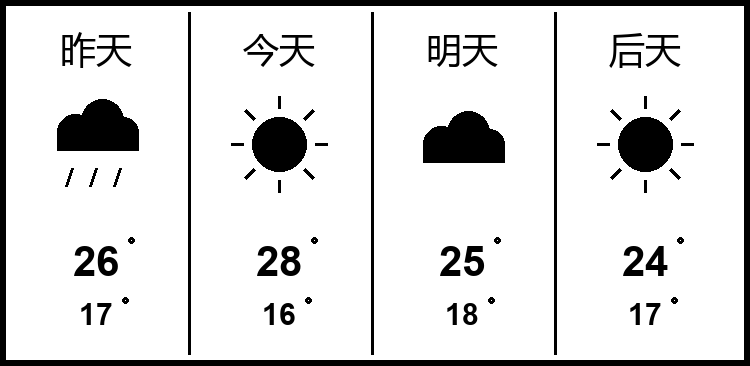
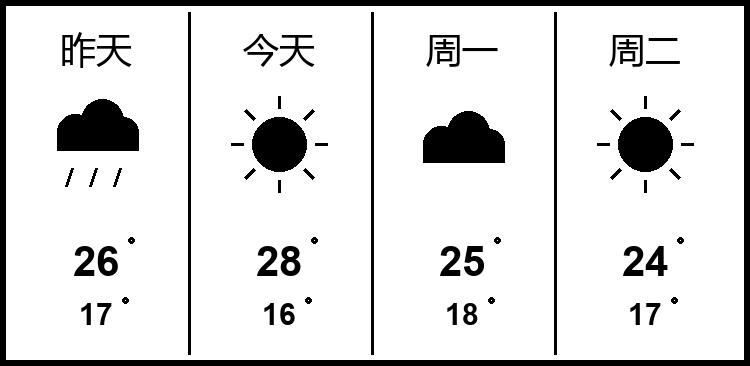
天气页标签改为周几（自动计算），延迟页统计移至右上角并标注时间轴，非主页停留2分钟自动回主页

Changed region(s): [[0.7973, 0.0902, 0.92, 0.1803], [0.552, 0.0902, 0.6747, 0.1803]]

diff --git a/src/ui.cpp b/src/ui.cpp
@@ -275,8 +275,17 @@ void uiDrawForecast(const AppConfig& cfg, const ForecastInfo& fc,
     epd.drawRect(0, 0, SCREEN_W, SCREEN_H, GxEPD_BLACK);
     epd.drawRect(1, 1, SCREEN_W - 2, SCREEN_H - 2, GxEPD_BLACK);
 
-    // 四列：昨天 / 今天 / 明天 / 后天（竖线分割）
-    static const char *labels[4] = { "昨天", "今天", "明天", "后天" };
+    // 四列：昨天 / 今天 / 周X / 周X（后两列按日期计算星期）
+    static const char *weekCn[] = { "日", "一", "二", "三", "四", "五", "六" };
+    char labelBuf[2][8];
+    const char *labels[4] = { "昨天", "今天", "明天", "后天" };
+    for (int i = 2; i < 4; i++) {
+        if (fc.valid && fc.days[i].wday >= 0 && fc.days[i].wday <= 6) {
+            snprintf(labelBuf[i - 2], sizeof(labelBuf[i - 2]), "周%s",
+                     weekCn[fc.days[i].wday]);
+            labels[i] = labelBuf[i - 2];
+        }
+    }
     const int16_t colW = (SCREEN_W - 4) / 4;
 
     for (int i = 1; i < 4; i++) {
@@ -386,18 +395,40 @@ void uiDrawLatency(const AppConfig& cfg, uint8_t index,
         }
     }
 
-    // 底部统计（纯 ASCII，使用小号字体）
+    // 右上角统计（min / avg / max / fail）
     char stats[56];
     if (vcnt > 0) {
-        snprintf(stats, sizeof(stats), "min %u  avg %u  max %u ms  fail %u",
+        snprintf(stats, sizeof(stats), "min%u avg%u max%u fail%u",
                  (unsigned)vmin, (unsigned)(vsum / vcnt), (unsigned)vmax,
                  (unsigned)fails);
     } else {
-        snprintf(stats, sizeof(stats), "no latency data yet");
+        snprintf(stats, sizeof(stats), "no data");
     }
     u8g2.setFont(u8g2_font_helvB08_tf);
-    u8g2.setCursor(10, SCREEN_H - 8);
+    int16_t wStats = u8g2.getUTF8Width(stats);
+    u8g2.setCursor(SCREEN_W - 10 - wStats, 18);
     u8g2.print(stats);
+
+    // 底端时间轴标注：左端与右端对应的时刻
+    if (count > 0) {
+        time_t nowT = time(nullptr);
+        struct tm tmNow;
+        localtime_r(&nowT, &tmNow);
+        time_t startT = nowT - (time_t)((uint32_t)cfg.checkIntervalMinutes *
+                                        (count - 1) * 60);
+        struct tm tmStart;
+        localtime_r(&startT, &tmStart);
+
+        char tL[8], tR[8];
+        snprintf(tL, sizeof(tL), "%02d:%02d", tmStart.tm_hour, tmStart.tm_min);
+        snprintf(tR, sizeof(tR), "%02d:%02d", tmNow.tm_hour, tmNow.tm_min);
+
+        u8g2.setCursor(x0, SCREEN_H - 6);
+        u8g2.print(tL);
+        int16_t wR = u8g2.getUTF8Width(tR);
+        u8g2.setCursor(x1 - wR, SCREEN_H - 6);
+        u8g2.print(tR);
+    }
 
     epd.display(!fullRefresh);
 }

diff --git a/src/main.cpp b/src/main.cpp
@@ -22,6 +22,9 @@
 // 用户按键：GPIO39（按下为低电平），用于切换页面
 #define BUTTON_PIN (39)
 
+// 非主页停留超过该时间后自动返回主页（默认 2 分钟）
+#define PAGE_RETURN_MS (120000UL)
+
 static AppConfig   g_cfg;
 static WeatherInfo g_weather;
 static ForecastInfo g_forecast;
@@ -30,6 +33,7 @@ static uint32_t    g_lastFullMs    = 0;
 static uint32_t    g_lastCheckMs   = 0;
 static uint8_t     g_page          = 0;      // 当前页面：0=主页 1=天气 2/3=延迟图
 static uint8_t     g_btnLast       = HIGH;   // 按键上次电平
+static uint32_t    g_pageSinceMs   = 0;      // 切换到当前页面的时刻
 
 // 检测按键是否被按下（上升沿去抖，返回 true 表示刚按下）
 static bool buttonPressed()
@@ -150,6 +154,8 @@ void setup()
     // 按键初始化（GPIO39，按下为低电平）
     pinMode(BUTTON_PIN, INPUT);
     g_btnLast = (uint8_t)digitalRead(BUTTON_PIN);
+    Serial.printf("[按键] GPIO39 初始电平=%d（空闲应为 1，按下为 0）\n",
+                  (int)g_btnLast);
 
     if (wifiEnsure(g_cfg, 15000)) {
         timeStartSync(g_cfg);
@@ -177,6 +183,7 @@ void setup()
 
     drawPage(true);   // 启动时全刷
     g_lastFullMs = millis();
+    g_pageSinceMs = millis();
 }
 
 void loop()
@@ -194,6 +201,14 @@ void loop()
             Serial.printf("[按键] 切换到第 %u 页\n", (unsigned)g_page);
             drawPage(true);             // 翻页用全刷，避免残影
             g_lastFullMs = millis();
+            g_pageSinceMs = millis();
+        }
+        if (g_page != 0 && millis() - g_pageSinceMs > PAGE_RETURN_MS) {
+            g_page = 0;
+            Serial.println("[页面] 停留超时，自动返回主页");
+            drawPage(true);
+            g_lastFullMs = millis();
+            g_pageSinceMs = millis();
         }
         delay(50);
     }

diff --git a/src/net_tasks.cpp b/src/net_tasks.cpp
@@ -147,6 +147,7 @@ bool weatherFetch(const AppConfig& cfg, WeatherInfo& out, ForecastInfo& fc)
     filter["daily"]["weather_code"]          = true;
     filter["daily"]["temperature_2m_max"]    = true;
     filter["daily"]["temperature_2m_min"]    = true;
+    filter["daily"]["time"]                  = true;
 
     JsonDocument doc;
     DeserializationError err =
@@ -171,6 +172,7 @@ bool weatherFetch(const AppConfig& cfg, WeatherInfo& out, ForecastInfo& fc)
     JsonArray codes = doc["daily"]["weather_code"].as<JsonArray>();
     JsonArray tmax  = doc["daily"]["temperature_2m_max"].as<JsonArray>();
     JsonArray tmin  = doc["daily"]["temperature_2m_min"].as<JsonArray>();
+    JsonArray times = doc["daily"]["time"].as<JsonArray>();
 
     fc.valid = false;
     uint8_t n = (uint8_t)codes.size();
@@ -179,6 +181,19 @@ bool weatherFetch(const AppConfig& cfg, WeatherInfo& out, ForecastInfo& fc)
         fc.days[i].code = codes[i] | 0;
         fc.days[i].tMax = tmax[i] | 0.0f;
         fc.days[i].tMin = tmin[i] | 0.0f;
+
+        // 由日期字符串（YYYY-MM-DD）计算星期，供天气页显示"周X"
+        const char *dateStr = times[i] | "";
+        if (strlen(dateStr) >= 10) {
+            struct tm tmv = {};
+            tmv.tm_year = atoi(dateStr) - 1900;
+            tmv.tm_mon  = atoi(dateStr + 5) - 1;
+            tmv.tm_mday = atoi(dateStr + 8);
+            tmv.tm_hour = 12;   // 用中午避免时区边界问题
+            if (mktime(&tmv) > 0) {
+                fc.days[i].wday = (int8_t)tmv.tm_wday;
+            }
+        }
     }
     fc.valid = (n == 4);
 

diff --git a/tools/render_pages.py b/tools/render_pages.py
@@ -67,7 +67,7 @@ def temp_text(d, cx, baseline, value, font):
 
 # ---- 页面 1：天气预报（昨天 / 今天 / 明天 / 后天）----
 img, d = new_page()
-labels = ["昨天", "今天", "明天", "后天"]
+labels = ["昨天", "今天", "周一", "周二"]
 codes = ["rain", "sun", "cloud", "sun"]
 tmax = [26, 28, 25, 24]
 tmin = [17, 16, 18, 17]
@@ -138,8 +138,13 @@ for i, v in enumerate(samples):
     d.ellipse([px(x - 1), px(y - 1), px(x + 1), px(y + 1)], fill=BLACK)
     prev = (x, y)
 
-d.text((px(10), px(H - 14)), "min 1200  avg 2264  max 3000 ms  fail 2",
-       font=font_small, fill=BLACK)
+stats = "min1200 avg2264 max3000 fail2"
+sw = d.textlength(stats, font=font_small) / SCALE
+d.text((px(W - 10 - sw), px(8)), stats, font=font_small, fill=BLACK)
+
+d.text((px(x0), px(H - 13)), "13:15", font=font_small, fill=BLACK)
+tw = d.textlength("15:30", font=font_small) / SCALE
+d.text((px(x1 - tw), px(H - 13)), "15:30", font=font_small, fill=BLACK)
 img.save(os.path.join(out_dir, "preview-latency.png"))
 
 print("已生成: docs/preview-weather.png, docs/preview-latency.png")

diff --git a/src/net_tasks.h b/src/net_tasks.h
@@ -21,6 +21,7 @@ struct DailyForecast {
     uint8_t code = 0;    // WMO 天气码
     float   tMax = 0.0f; // 最高温度
     float   tMin = 0.0f; // 最低温度
+    int8_t  wday = -1;   // 星期（0=周日 … 6=周六，-1=未知）
 };
 
 struct ForecastInfo {
